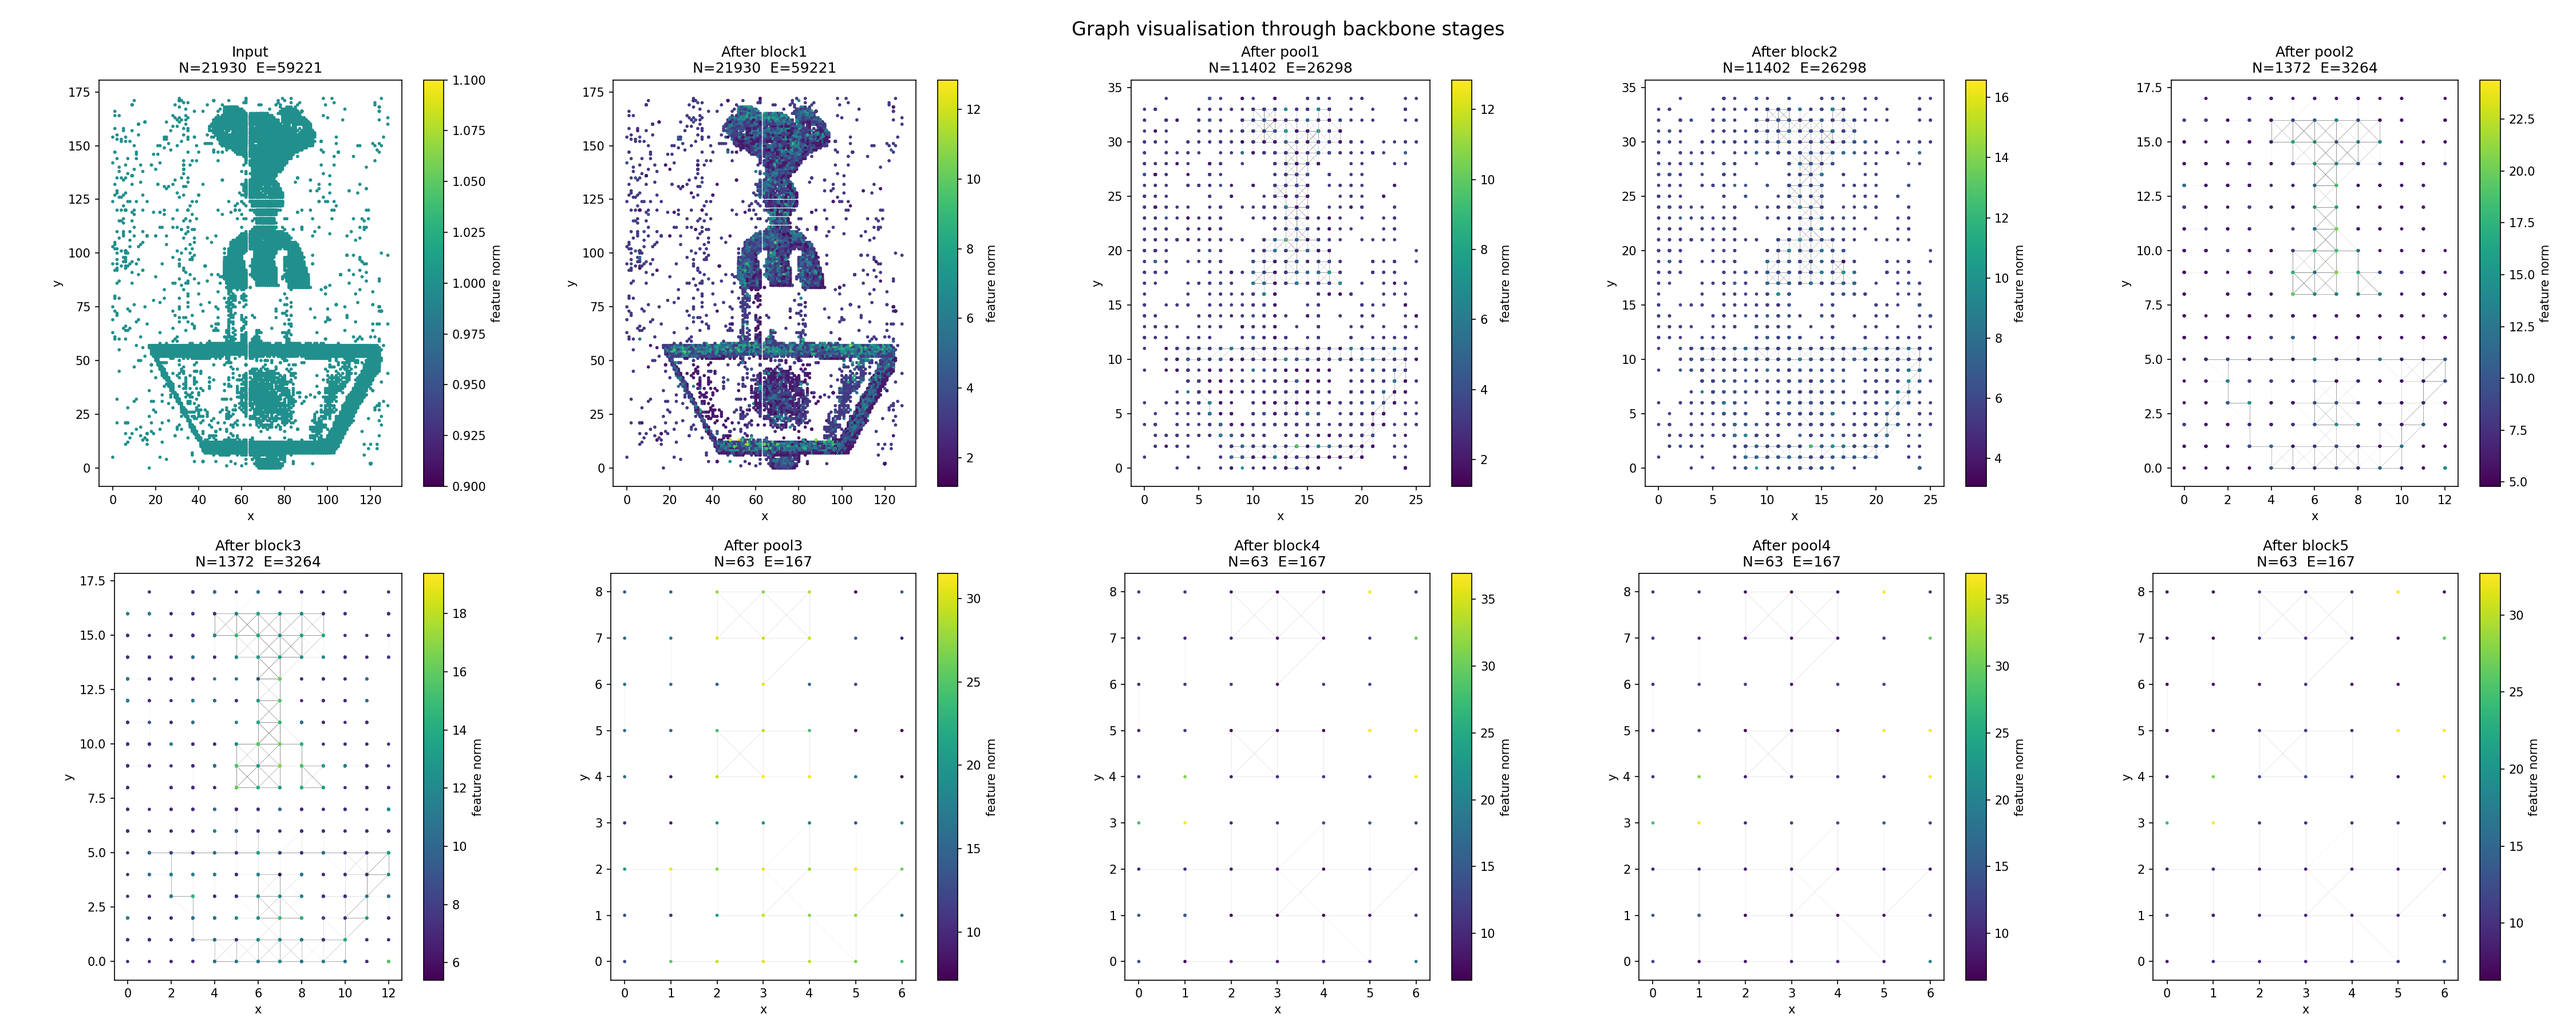
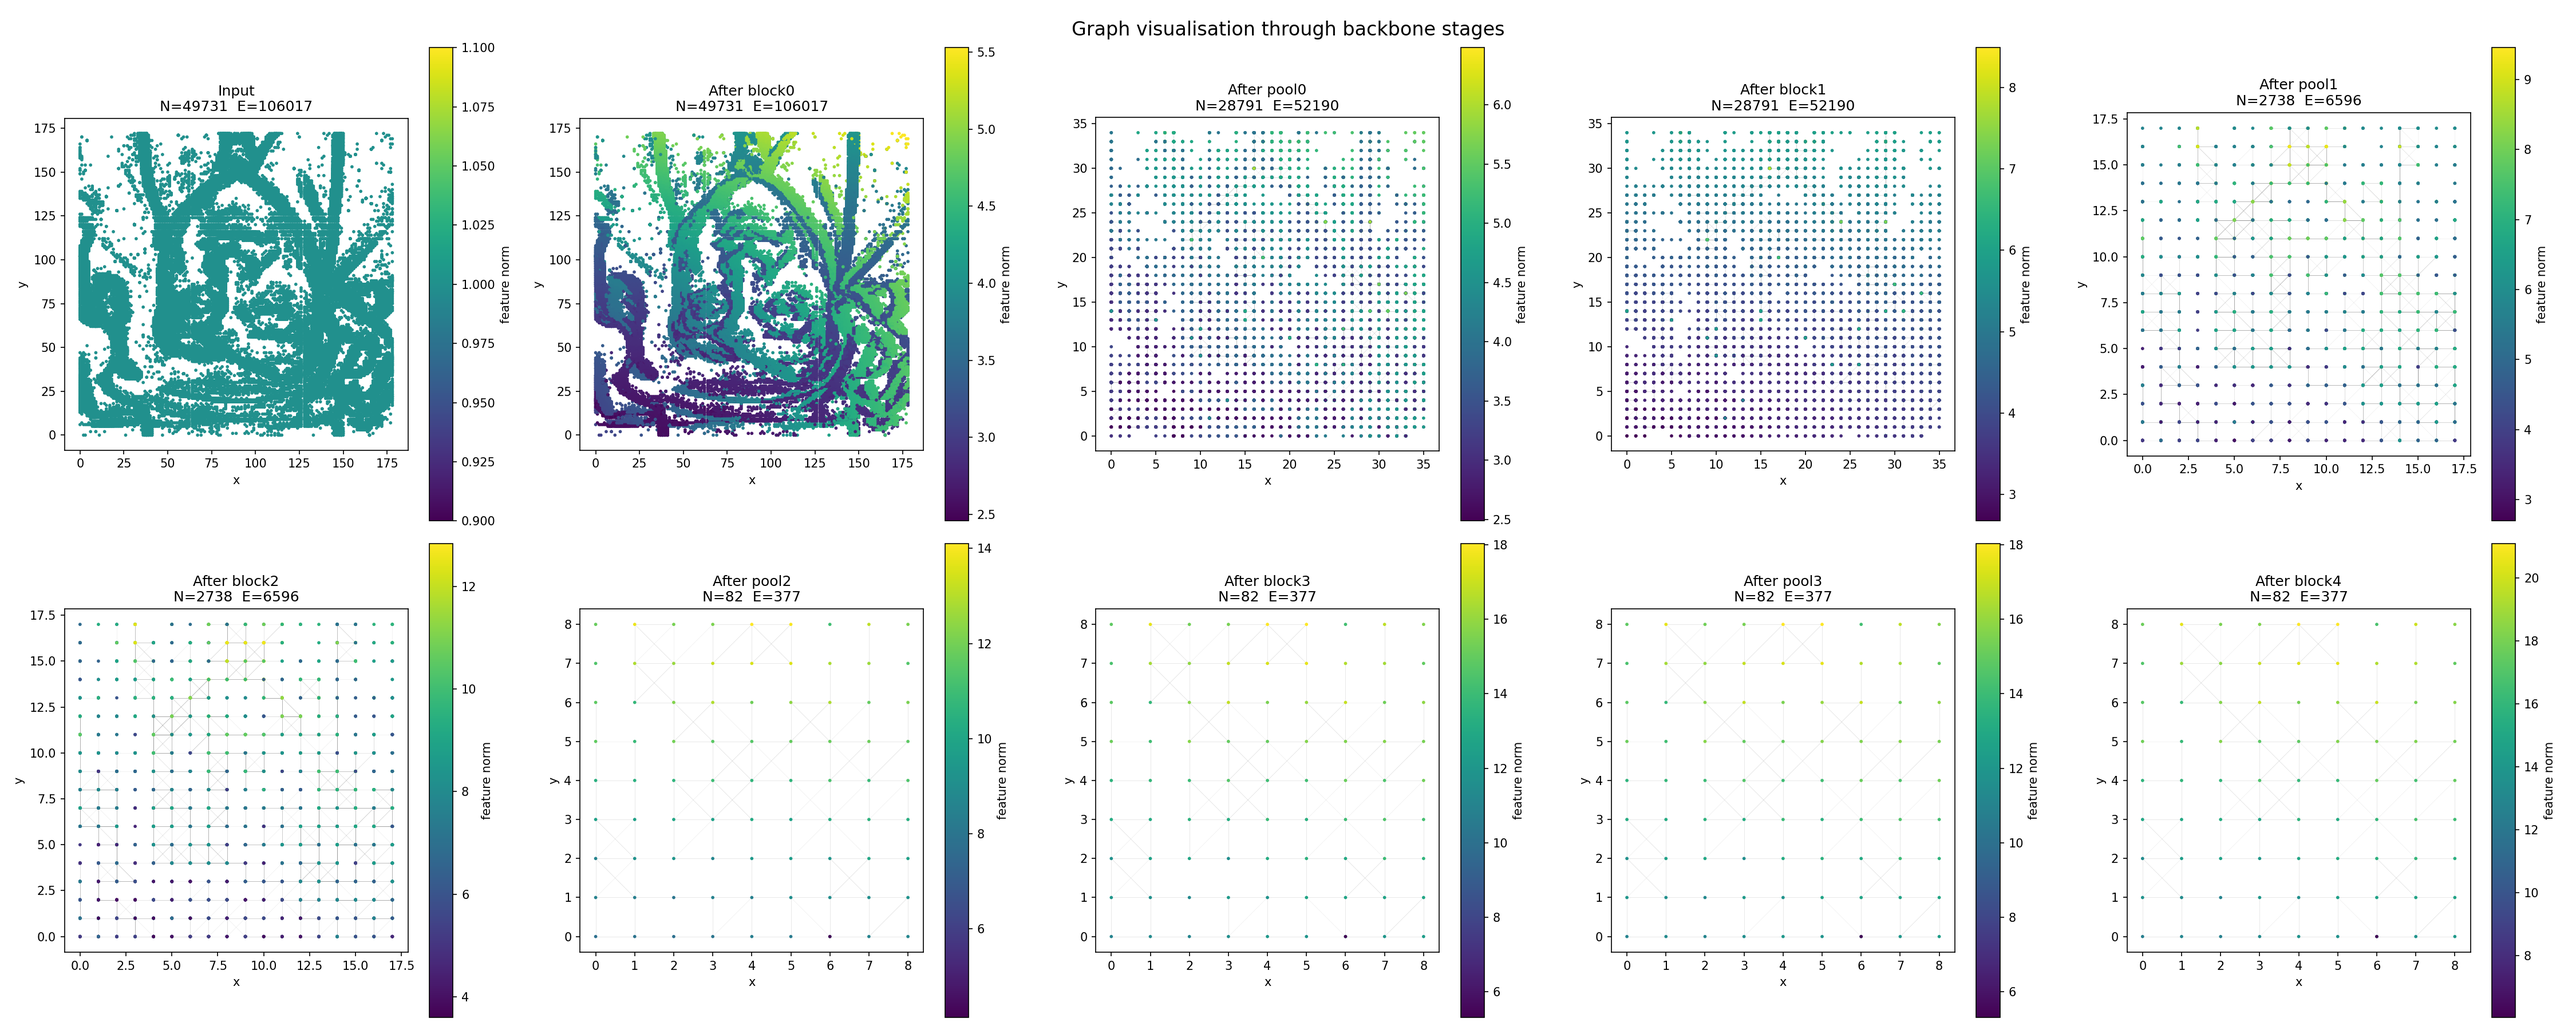
something new trying

diff --git a/scripts/evaluate.py b/scripts/evaluate.py
@@ -107,51 +107,34 @@ else:
 backbone.eval()
 
 with torch.no_grad():
-    input_data = batch.clone()
+    scale = batch.pos.new_tensor([240.0, 180.0])
 
-    data = backbone.block1(batch)
-    after_block1 = data.clone()
+    stages = [("Input", batch.clone())]
 
-    data = backbone.pool1(data)
-    after_pool1 = data.clone()
+    data = batch.clone()
+    pos = data.pos.clone()
+    data.pos[:, :2] = data.pos[:, :2] / scale
+    data = backbone.blocks[0](data)
+    data.pos = pos
+    stages.append(("After block0", data.clone()))
 
-    data = backbone.block2(data)
-    after_block2 = data.clone()
+    for i, (pool, block) in enumerate(zip(backbone.pools, backbone.blocks[1:])):
+        data = pool(data)
+        scale = scale / pool.pool_size[:2].float().to(scale.device)
+        stages.append((f"After pool{i}", data.clone()))
 
-    data = backbone.pool2(data)
-    after_pool2 = data.clone()
-
-    data = backbone.block3(data)
-    after_block3 = data.clone()
-
-    data = backbone.pool3(data)
-    after_pool3 = data.clone()
-
-    data = backbone.block4(data)
-    after_block4 = data.clone()
-
-    data = backbone.pool4(data)
-    after_pool4 = data.clone()
-
-    data = backbone.block5(data)
-    after_block5 = data.clone()
+        pos = data.pos.clone()
+        data.pos[:, :2] = data.pos[:, :2] / scale
+        data = block(data)
+        data.pos = pos
+        stages.append((f"After block{i+1}", data.clone()))
 
 # ── plot ─────────────────────────────────────────────────────────────────────
 
-stages = [
-    ("Input",            input_data),
-    ("After block1",     after_block1),
-    ("After pool1",      after_pool1),
-    ("After block2",     after_block2),
-    ("After pool2",      after_pool2),
-    ("After block3",     after_block3),
-    ("After pool3",      after_pool3),
-    ("After block4",     after_block4),
-    ("After pool4",      after_pool4),
-    ("After block5",     after_block5),
-]
-
-fig, axes = plt.subplots(2, 5, figsize=(30, 12))
+n = len(stages)
+ncols = 5
+nrows = (n + ncols - 1) // ncols
+fig, axes = plt.subplots(nrows, ncols, figsize=(6 * ncols, 6 * nrows))
 axes = axes.flatten()
 
 for ax, (title, data) in zip(axes, stages):
@@ -165,10 +148,10 @@ print("Saved to backbone_graph_vis.png")
 
 # ── 3D plot ─────────────────────────────────────────────────────────────────
 
-fig3d = plt.figure(figsize=(35, 14))
+fig3d = plt.figure(figsize=(7 * ncols, 7 * nrows))
 
 for i, (title, data) in enumerate(stages):
-    ax = fig3d.add_subplot(2, 5, i + 1, projection='3d')
+    ax = fig3d.add_subplot(nrows, ncols, i + 1, projection='3d')
     plot_graph_3d(data, title, ax)
 
 fig3d.suptitle("3D graph visualisation (x, y, t) through backbone stages", fontsize=16)

diff --git a/models/layers/network_blocks.py b/models/layers/network_blocks.py
@@ -34,7 +34,7 @@ class BaseConv(nn.Module):
     """A PointNet -> Batchnorm -> activation block"""
 
     def __init__(
-        self, in_channels, out_channels, bias=False, act="lrelu"
+        self, in_channels, out_channels, bias=False, act="relu"
     ):
         super().__init__()
 
@@ -50,20 +50,20 @@ class BaseConv(nn.Module):
 
 class BlockConv(nn.Module):
     def __init__(
-        self, in_channels, out_channels, act="lrelu"
+        self, in_channels, out_channels, act="relu"
     ):
         super().__init__()
-        self.in_channels = in_channels
+        self.in_channels = in_channels + 2
         self.out_channels = out_channels
 
-        self.conv1 = PointNetConv(in_channels, out_channels)
-        self.norm1 = BatchNorm(out_channels)
+        self.conv1 = PointNetConv(self.in_channels, self.out_channels)
+        self.norm1 = BatchNorm(self.out_channels)
 
-        self.conv2 = PointNetConv(out_channels, out_channels)
-        self.norm2 = BatchNorm(out_channels)
+        self.conv2 = PointNetConv(self.out_channels, self.out_channels)
+        self.norm2 = BatchNorm(self.out_channels)
 
-        self.linear = LinearX(in_channels, out_channels)
-        self.norm_linear = BatchNorm(out_channels)
+        self.linear = LinearX(self.in_channels, self.out_channels)
+        self.norm_linear = BatchNorm(self.out_channels)
 
         self.act = get_activation(act, inplace=True)
 

diff --git a/models/layers/pointnet.py b/models/layers/pointnet.py
@@ -33,7 +33,12 @@ class PointNetConv(nn.Module):
 
         # Float layers — only things created at construction time
         self.linear = nn.Linear(in_channels + 2, out_channels, bias=True)
-        self.global_nn = nn.Linear(out_channels, out_channels, bias=bias)
+        # self.global_nn = nn.Linear(out_channels, out_channels, bias=bias)
+        self.global_nn = nn.Sequential(
+            nn.Linear(out_channels, out_channels*2, bias=bias),
+            nn.ReLU(inplace=True),
+            nn.Linear(out_channels*2, out_channels, bias=bias),
+        )
 
     # ------------------------------------------------------------------
     # Forward passes
@@ -45,14 +50,17 @@ class PointNetConv(nn.Module):
         ) -> GraphData:
 
         x, pos, edge_index = data.x, data.pos[:, :2], data.edge_index
-
         pos_i = pos[edge_index[:, 0]]
         pos_j = pos[edge_index[:, 1]]
         x_j = x[edge_index[:, 1]]
         msg = torch.cat((x_j, pos_j - pos_i), dim=1)
         msg = self.linear(msg)
         out = self._scatter_amax(msg, edge_index)
+
+        out_skip = out.clone()  # for potential skip connection
         out = self.global_nn(out)
+        out = out + out_skip  # skip connection
+
         data.x = out
         return data
 

diff --git a/models/backbone.py b/models/backbone.py
@@ -43,15 +43,24 @@ class BACKBONE(nn.Module):
                 nn.init.constant_(m.weight, 1)
                 nn.init.constant_(m.bias, 0)
             elif isinstance(m, LinearX):
-                nn.init.kaiming_normal_(m.weight, nonlinearity='leaky_relu')
+                nn.init.kaiming_normal_(m.weight, nonlinearity='relu')
                 if m.bias is not None:
                     nn.init.constant_(m.bias, 0)
 
     def forward(self, data: GraphData):
+        scale = data.pos.new_tensor([240.0, 180.0])
+
+        pos = data.pos.clone()
+        data.x = torch.cat((data.x, data.pos[:, :2] / scale), dim=1)
+        data.pos[:, :2] = data.pos[:, :2] / 5.0
         data = self.blocks[0](data)
+        data.pos = pos
+
         features = []
         for pool, block in zip(self.pools, self.blocks[1:]):
             data = pool(data)
+            scale = scale / pool.pool_size[:2].float().to(scale.device)
+            data.x = torch.cat((data.x, data.pos[:, :2] / scale), dim=1)
             data = block(data)
             features.append(data.clone())
         return features[-self.num_outputs:]

diff --git a/scripts/diagnose.py b/scripts/diagnose.py
@@ -286,7 +286,7 @@ def run_diagnostics(model, dataloader, device, num_batches=50):
 if __name__ == "__main__":
     parser = argparse.ArgumentParser()
     parser.add_argument("--config", type=str, default="configs/ncaltech101.yaml")
-    parser.add_argument("--checkpoint", type=str, default="checkpoints/ncaltech101/best.pth")
+    parser.add_argument("--checkpoint", type=str, default="checkpoints/ncaltech101/best-v6.ckpt")
     parser.add_argument("--num_batches", type=int, default=50)
     parser.add_argument("--split", choices=["val", "test", "train"], default="test")
     args = parser.parse_args()

diff --git a/scripts/test.py b/scripts/test.py
@@ -277,7 +277,7 @@ if __name__ == "__main__":
         cfg=cfg,
     )
 
-    if args.resume:
-        trainer.load_checkpoint(args.resume)
+    # if args.resume:
+    #     trainer.load_checkpoint(args.resume)
 
     trainer.validate(0)
